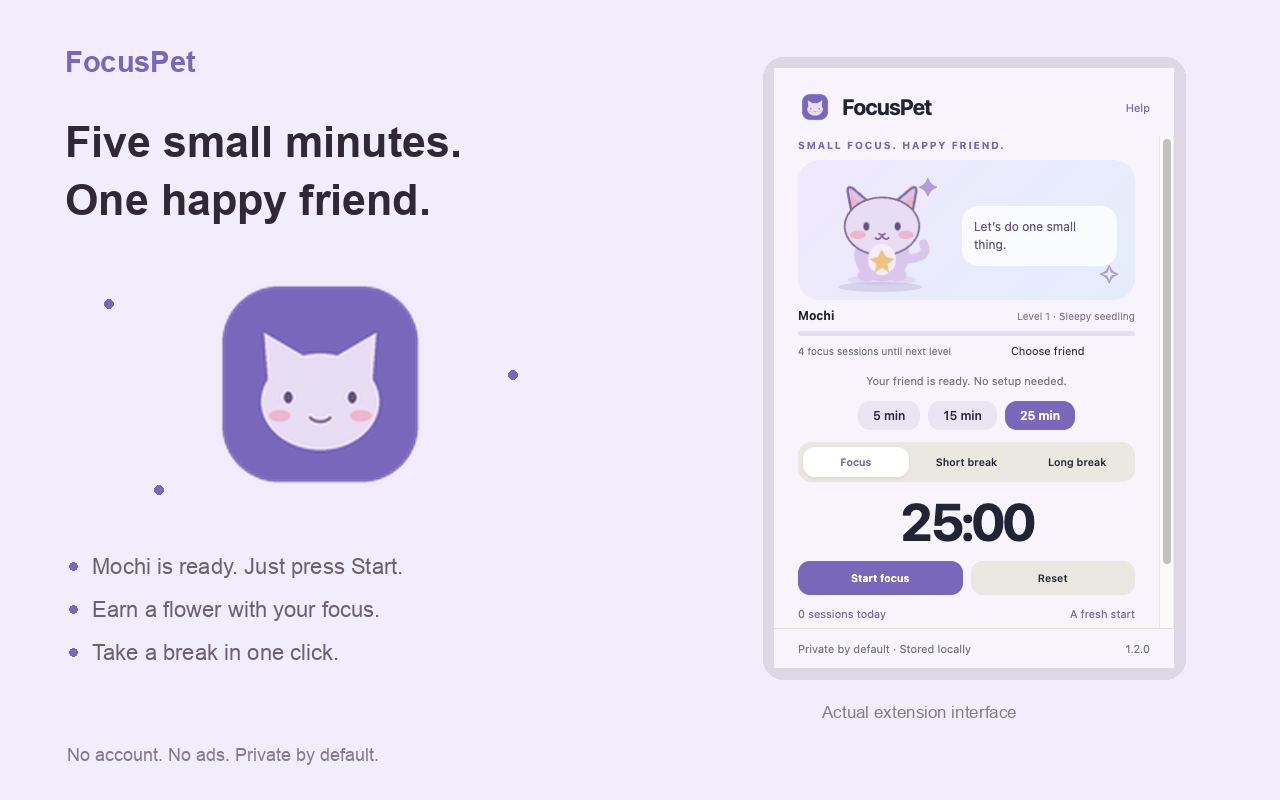
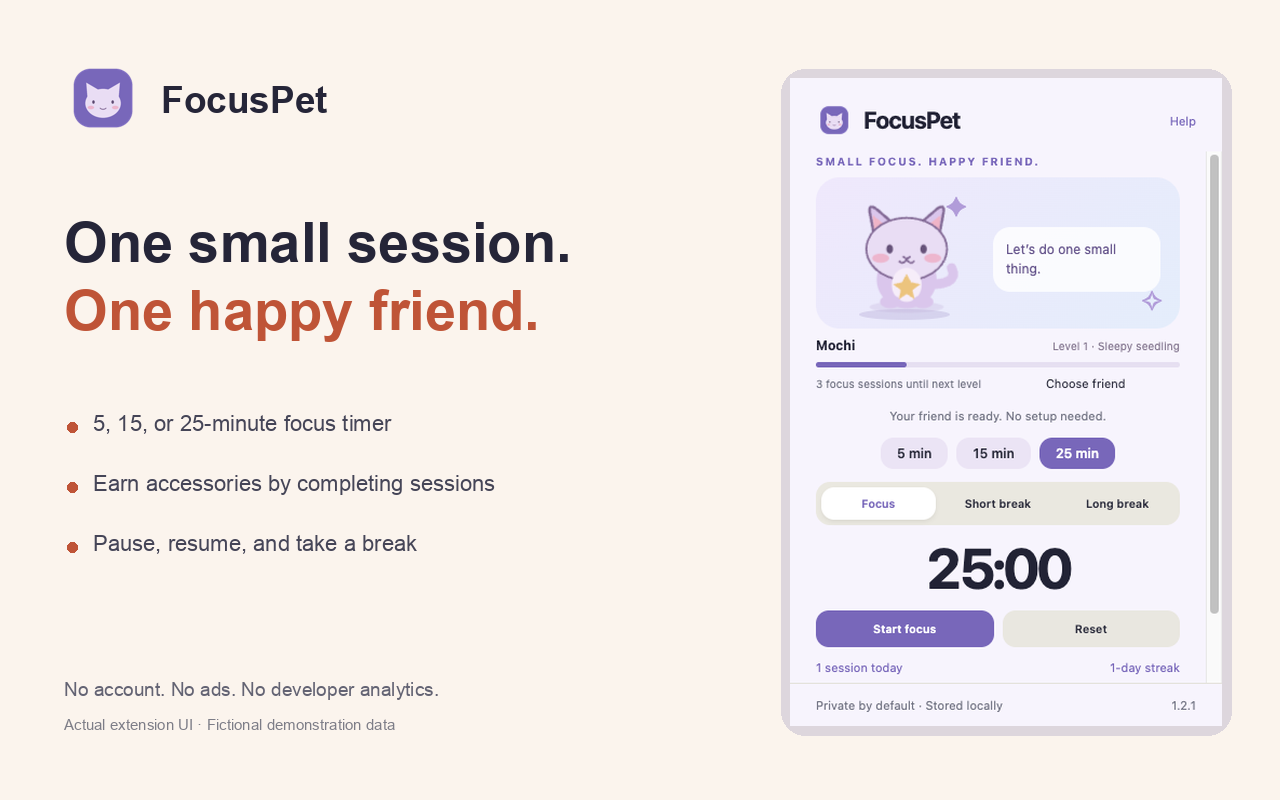
Improve store discovery and add optional honest feedback

diff --git a/extension/popup.html b/extension/popup.html
@@ -1,1 +1,1 @@
-<!doctype html><html lang="en"><head><meta charset="utf-8"><meta name="viewport" content="width=device-width,initial-scale=1"><title>FocusPet</title><link rel="stylesheet" href="style.css"></head><body><header><div><img src="icons/icon48.png" alt=""><h1>FocusPet</h1></div><a class="brand-link" href="privacy.html" target="_blank">Help</a></header><main><div class="eyebrow">SMALL FOCUS. HAPPY FRIEND.</div><div class="pet-scene" id="pet-scene"><div class="spark s1">✦</div><div class="spark s2">✧</div><img id="pet-image" src="pets/cat.svg" alt="Your focus companion"><span id="pet-accessory" aria-hidden="true"></span><div class="pet-shadow"></div><span class="pet-bubble" id="pet-bubble">Let's do one small thing.</span></div><div class="pet-info"><strong id="pet-name">Mochi</strong><span id="pet-level">Level 1 · Sleepy seedling</span></div><div class="growth"><div id="growth-bar"></div></div><div class="row"><span class="muted" id="growth-label">4 focus sessions to grow</span><button id="customize" class="quiet small">Choose friend</button></div><section id="custom-panel" class="card" hidden><label for="pet-kind">Your companion</label><div class="row"><select id="pet-kind"><option value="cat">Cat</option><option value="bunny">Bunny</option></select><input id="pet-name-input" maxlength="30" placeholder="Friend's name" aria-label="Companion name"><button id="save-pet" class="primary small">Save</button></div></section><p class="muted center" id="ready-hint">Mochi is ready. No setup needed.</p><div class="presets" aria-label="Focus duration"><button data-minutes="5">5 min</button><button data-minutes="15">15 min</button><button data-minutes="25" class="selected">25 min</button></div><div class="tabs" style="margin-top:12px"><button data-mode="focus" class="selected">Focus</button><button data-mode="short">Short break</button><button data-mode="long">Long break</button></div><div id="clock" class="clock" role="timer" aria-label="Time remaining">25:00</div><div class="row"><button id="start" class="primary">Start focus</button><button id="reset">Reset</button></div><button id="next-session" class="full" hidden>Take a 5-minute break</button><div class="daily-summary"><span id="completed">0 sessions today</span><span id="streak">A fresh start</span></div><details class="settings-details"><summary>Optional task, timer settings & progress</summary><label for="task">One thing to focus on (optional)</label><input id="task" maxlength="100" placeholder="You can start without writing anything"><div class="row"><div><label for="focus-minutes">Focus minutes</label><input id="focus-minutes" type="number" min="1" max="120" value="25"></div><div><label for="break-minutes">Break minutes</label><input id="break-minutes" type="number" min="1" max="60" value="5"></div></div><button id="settings" class="small" style="margin-top:10px">Save durations</button><div id="week" class="week"></div></details><p id="status" class="status" role="status" aria-live="polite"></p></main><footer><span>Private by default · Stored locally</span><span>1.2.0</span></footer><script type="module" src="popup.js"></script></body></html>
+<!doctype html><html lang="en"><head><meta charset="utf-8"><meta name="viewport" content="width=device-width,initial-scale=1"><title>FocusPet</title><link rel="stylesheet" href="style.css"></head><body><header><div><img src="icons/icon48.png" alt=""><h1>FocusPet</h1></div><a class="brand-link" href="privacy.html" target="_blank">Help</a></header><main><div class="eyebrow">SMALL FOCUS. HAPPY FRIEND.</div><div class="pet-scene" id="pet-scene"><div class="spark s1">✦</div><div class="spark s2">✧</div><img id="pet-image" src="pets/cat.svg" alt="Your focus companion"><span id="pet-accessory" aria-hidden="true"></span><div class="pet-shadow"></div><span class="pet-bubble" id="pet-bubble">Let's do one small thing.</span></div><div class="pet-info"><strong id="pet-name">Mochi</strong><span id="pet-level">Level 1 · Sleepy seedling</span></div><div class="growth"><div id="growth-bar"></div></div><div class="row"><span class="muted" id="growth-label">4 focus sessions to grow</span><button id="customize" class="quiet small">Choose friend</button></div><section id="custom-panel" class="card" hidden><label for="pet-kind">Your companion</label><div class="row"><select id="pet-kind"><option value="cat">Cat</option><option value="bunny">Bunny</option></select><input id="pet-name-input" maxlength="30" placeholder="Friend's name" aria-label="Companion name"><button id="save-pet" class="primary small">Save</button></div></section><p class="muted center" id="ready-hint">Mochi is ready. No setup needed.</p><div class="presets" aria-label="Focus duration"><button data-minutes="5">5 min</button><button data-minutes="15">15 min</button><button data-minutes="25" class="selected">25 min</button></div><div class="tabs" style="margin-top:12px"><button data-mode="focus" class="selected">Focus</button><button data-mode="short">Short break</button><button data-mode="long">Long break</button></div><div id="clock" class="clock" role="timer" aria-label="Time remaining">25:00</div><div class="row"><button id="start" class="primary">Start focus</button><button id="reset">Reset</button></div><button id="next-session" class="full" hidden>Take a 5-minute break</button><div class="daily-summary"><span id="completed">0 sessions today</span><span id="streak">A fresh start</span></div><details class="settings-details"><summary>Optional task, timer settings & progress</summary><label for="task">One thing to focus on (optional)</label><input id="task" maxlength="100" placeholder="You can start without writing anything"><div class="row"><div><label for="focus-minutes">Focus minutes</label><input id="focus-minutes" type="number" min="1" max="120" value="25"></div><div><label for="break-minutes">Break minutes</label><input id="break-minutes" type="number" min="1" max="60" value="5"></div></div><button id="settings" class="small" style="margin-top:10px">Save durations</button><div id="week" class="week"></div></details><p id="status" class="status" role="status" aria-live="polite"></p></main><footer><span>Private by default · Stored locally</span><span>1.2.1</span></footer><script type="module" src="popup.js"></script></body></html>

diff --git a/extension/background.js b/extension/background.js
@@ -1,8 +1,9 @@
+import {recordReviewUse} from './review.js';
 import {defaults,remaining,finishTimer} from './model.js';
 let queue=Promise.resolve();
 function serialize(work){const result=queue.then(work);queue=result.catch(()=>{});return result;}
 async function read(){const d=await chrome.storage.local.get(['timer','durations','stats','pet','task']);return {timer:d.timer||{mode:'focus',remaining:25*60000,running:false,finished:false},durations:{...defaults,...d.durations},stats:d.stats||{},pet:d.pet||{total:Object.values(d.stats||{}).reduce((a,b)=>a+b,0),kind:'cat',name:'Mochi'},task:d.task||''};}
-async function finish(){const d=await read();const update=finishTimer(d.timer,d.stats);if(!update)return d;const stats=Object.fromEntries(Object.entries(update.stats).sort(([a],[b])=>b.localeCompare(a)).slice(0,90));const pet={...d.pet,total:d.pet.total+(d.timer.mode==='focus'?1:0)};await chrome.storage.local.set({timer:update.timer,stats,pet});await chrome.alarms.clear('finish');await chrome.action.setBadgeText({text:''});try{await chrome.notifications.create('focuspebble-done',{type:'basic',iconUrl:'icons/icon128.png',title:d.timer.mode==='focus'?'Focus complete':'Break complete',message:d.timer.mode==='focus'?'Nice work. Take a breath and choose your next step.':'Ready for another focus session?',priority:1});}catch{}return {...d,timer:update.timer,stats,pet};}
+async function finish(){const d=await read();const update=finishTimer(d.timer,d.stats);if(!update)return d;const stats=Object.fromEntries(Object.entries(update.stats).sort(([a],[b])=>b.localeCompare(a)).slice(0,90));const pet={...d.pet,total:d.pet.total+(d.timer.mode==='focus'?1:0)};await chrome.storage.local.set({timer:update.timer,stats,pet});if(d.timer.mode==='focus')await recordReviewUse();await chrome.alarms.clear('finish');await chrome.action.setBadgeText({text:''});try{await chrome.notifications.create('focuspebble-done',{type:'basic',iconUrl:'icons/icon128.png',title:d.timer.mode==='focus'?'Focus complete':'Break complete',message:d.timer.mode==='focus'?'Nice work. Take a breath and choose your next step.':'Ready for another focus session?',priority:1});}catch{}return {...d,timer:update.timer,stats,pet};}
 async function handle(message){let d=await finish();let timer={...d.timer};const now=Date.now();switch(message.type){case 'get':return d;case 'task':d.task=String(message.task||'').slice(0,100);await chrome.storage.local.set({task:d.task});return d;case 'pet':if(!['cat','bunny'].includes(message.kind))throw Error('Choose a cat or bunny.');d.pet={...d.pet,kind:message.kind,name:String(message.name||'Mochi').trim().slice(0,30)||'Mochi'};await chrome.storage.local.set({pet:d.pet});return d;case 'quick':if(timer.running)throw Error('Pause the current timer before changing its duration.');if(![5,15,25].includes(message.minutes))throw Error('Choose 5, 15, or 25 minutes.');timer={mode:'focus',remaining:message.minutes*60000,running:false,finished:false};break;case 'next':if(!timer.finished)throw Error('Complete the current session before starting the next one.');timer={mode:timer.mode==='focus'?'short':'focus',remaining:d.durations[timer.mode==='focus'?'short':'focus']*60000,running:true,finished:false};timer.endAt=now+timer.remaining;break;case 'start':if(timer.running)return d;if(timer.remaining<=0)timer.remaining=d.durations[timer.mode]*60000;timer={...timer,running:true,finished:false,endAt:now+timer.remaining};break;case 'pause':timer={...timer,remaining:remaining(timer,now),running:false};break;case 'reset':timer={mode:timer.mode,remaining:d.durations[timer.mode]*60000,running:false,finished:false};break;case 'mode':if(!['focus','short','long'].includes(message.mode))throw Error('Invalid mode.');timer={mode:message.mode,remaining:d.durations[message.mode]*60000,running:false,finished:false};break;case 'settings':if(!Number.isInteger(message.focus)||message.focus<1||message.focus>120||!Number.isInteger(message.short)||message.short<1||message.short>60)throw Error('Use whole minutes: focus 1–120, break 1–60.');d.durations={...d.durations,focus:message.focus,short:message.short};await chrome.storage.local.set({durations:d.durations});if(!timer.running)timer={mode:timer.mode,running:false,remaining:d.durations[timer.mode]*60000,finished:false};break;default:throw Error('Unsupported timer action.');}await chrome.storage.local.set({timer});if(timer.running){await chrome.alarms.create('finish',{when:timer.endAt});await chrome.action.setBadgeBackgroundColor({color:'#bf5437'});await chrome.action.setBadgeText({text:timer.mode==='focus'?'ON':'BRK'});}else{await chrome.alarms.clear('finish');await chrome.action.setBadgeText({text:''});}return {...d,timer};}
 chrome.runtime.onMessage.addListener((message,sender,respond)=>{if(sender.id!==chrome.runtime.id)return;serialize(()=>handle(message)).then(data=>respond({ok:true,data}),error=>respond({ok:false,error:error.message}));return true;});
 chrome.alarms.onAlarm.addListener(alarm=>{if(alarm.name==='finish')serialize(finish);});

diff --git a/extension/privacy.html b/extension/privacy.html
@@ -1,1 +1,1 @@
-<!doctype html><html lang="en"><meta charset="utf-8"><meta name="viewport" content="width=device-width,initial-scale=1"><title>Privacy and help</title><link rel="stylesheet" href="style.css"><body class="library"><header><h1>Privacy and help</h1></header><main><h2>Stored on your device</h2><p>This extension does not send your data to a developer server. It contains no analytics, advertising, accounts, or remote executable code.</p><p>Saved content uses Chrome local storage. Clearing extension data or uninstalling removes it. Chrome and its Web Store operate under Google's separate policies.</p><h2>How this product accesses data</h2><p>Local data includes timer state, durations, task intention, companion type and name, total completed focus sessions, and up to 90 days of daily counts. No page content or browsing history is accessed.</p><h2>Control your data</h2><p>Use the export and delete controls where provided. Exported files may contain private URLs or notes, so store them somewhere you trust.</p><h2>Support</h2><p>Use the support contact on this extension's Chrome Web Store listing to report a bug. Include the extension version and steps to reproduce. Do not include passwords, private URLs, or sensitive notes.</p><h2>Remove the extension</h2><p>Open chrome://extensions, find this extension, and choose Remove.</p><a href="popup.html">Back to the app</a></main></body></html>
+<!doctype html><html lang="en"><meta charset="utf-8"><meta name="viewport" content="width=device-width,initial-scale=1"><title>Privacy and help</title><link rel="stylesheet" href="style.css"><body class="library"><header><h1>Privacy and help</h1></header><main><h2>Stored on your device</h2><p>This extension does not send your data to a developer server. It contains no analytics, advertising, accounts, or remote executable code.</p><p>Saved content uses Chrome local storage. Clearing extension data or uninstalling removes it. Chrome and its Web Store operate under Google's separate policies.</p><h2>How this product accesses data</h2><p>Local data includes timer state, durations, task intention, companion type and name, total completed focus sessions, and up to 90 days of daily counts. No page content or browsing history is accessed.</p><h2>Control your data</h2><p>Use the export and delete controls where provided. Exported files may contain private URLs or notes, so store them somewhere you trust.</p><h2>Support</h2><p>Use the support contact on this extension's Chrome Web Store listing to report a bug. Include the extension version and steps to reproduce. Do not include passwords, private URLs, or sensitive notes.</p><h2>Remove the extension</h2><p>Open chrome://extensions, find this extension, and choose Remove.</p><a href="popup.html">Back to the app</a><h2>Share feedback</h2><p>Share an honest review of your experience. Reviews are optional and do not unlock features.</p><p><a href="https://chromewebstore.google.com/detail/cbfjjbjnoogmgpggefjgphhdfdpciclk/reviews" target="_blank" rel="noopener noreferrer">Write a Chrome Web Store review</a></p><p>Local feedback preferences record successful-use counts, activity dates, and whether the one-time review notice was dismissed or opened. No feedback data is sent to the developer.</p></main></body></html>

diff --git a/extension/popup.js b/extension/popup.js
@@ -1,3 +1,5 @@
+import {initReview} from './review.js';
+initReview('https://chromewebstore.google.com/detail/cbfjjbjnoogmgpggefjgphhdfdpciclk/reviews');
 import {$,status,node} from './shared.js';import {remaining,localDay,petStage,streak} from './model.js';let state,pending=false;
 function clock(){if(!state)return;const seconds=Math.ceil(remaining(state.timer)/1000);$('#clock').textContent=`${String(Math.floor(seconds/60)).padStart(2,'0')}:${String(seconds%60).padStart(2,'0')}`;if(state.timer.running&&seconds===0&&!pending)send('get').catch(()=>{});}
 function render(){const t=state.timer,pet=state.pet,stage=petStage(pet.total);document.querySelectorAll('[data-mode]').forEach(e=>e.classList.toggle('selected',e.dataset.mode===t.mode));$('#start').textContent=t.running?'Pause':Boolean(t.endAt)&&!t.finished?'Resume':`Start ${t.mode==='focus'?'focus':'break'}`;$('#pet-scene').classList.toggle('working',t.running&&t.mode==='focus');$('#pet-scene').classList.toggle('resting',!t.running||t.mode!=='focus');$('#pet-image').src=`pets/${pet.kind}.svg`;$('#pet-name').textContent=pet.name;$('#pet-accessory').textContent=['','✿','★','♛'][stage.level-1];$('#pet-accessory').title=stage.name;$('#ready-hint').textContent=t.running?'Your timer keeps going when this popup closes.':t.finished?'A small win. Ready for the next step?':'Your friend is ready. No setup needed.';$('#next-session').hidden=!t.finished;$('#next-session').textContent=t.mode==='focus'?`Take a ${state.durations.short}-minute break`:'Start another focus session';document.querySelectorAll('[data-minutes]').forEach(e=>{e.disabled=t.running;e.classList.toggle('selected',!t.running&&!t.finished&&t.mode==='focus'&&t.remaining===Number(e.dataset.minutes)*60000);});$('#pet-level').textContent=`Level ${stage.level} · ${stage.name}`;$('#pet-bubble').textContent=t.finished?'You did it. Take a little breath.':t.running?(t.mode==='focus'?'I’ll keep you company.':'Time to stretch our paws.'):'Let’s do one small thing.';$('#growth-bar').style.width=`${stage.next?Math.min(100,pet.total/stage.next*100):100}%`;$('#growth-label').textContent=stage.next?`${stage.next-pet.total} focus sessions until next level`:'Your little moon guardian is all grown up.';const count=state.stats[localDay(Date.now())]||0;$('#completed').textContent=`${count} ${count===1?'session':'sessions'} today`;const days=streak(state.stats);$('#streak').textContent=days?`${days}-day streak`:'A fresh start';const week=$('#week');week.replaceChildren();for(let i=6;i>=0;i--){const d=new Date();d.setDate(d.getDate()-i);const n=state.stats[localDay(d.getTime())]||0;const col=node('div',undefined,'week-day');const bar=node('div',undefined,'week-bar');bar.style.height=`${Math.min(50,n*8)+4}px`;bar.title=`${n} sessions`;col.append(node('span',String(n),'muted'),bar,node('span',d.toLocaleDateString(undefined,{weekday:'narrow'}),'muted'));week.append(col);}clock();}

diff --git a/extension/style.css b/extension/style.css
@@ -8,3 +8,5 @@ body:not(.library){height:600px;display:flex;flex-direction:column}body:not(.lib
 :root{--accent:#7867ba;background:#f7f4fd}.pet-scene{position:relative;height:138px;margin:9px 0 4px;background:linear-gradient(135deg,#efe8fc,#e4edfb);border-radius:22px;overflow:hidden}.pet-scene>img{position:absolute;bottom:7px;left:24px;width:120px;height:120px;z-index:2}.pet-shadow{position:absolute;bottom:8px;left:40px;width:84px;height:10px;background:#b8aed8;border-radius:50%;opacity:.4}.pet-bubble{position:absolute;right:18px;top:46px;max-width:155px;font-size:12px;line-height:1.5;background:#fffc;padding:12px;border-radius:16px;color:#66558c}.spark{position:absolute;color:#b19cd9;font-size:25px}.s1{top:12px;left:120px}.s2{right:16px;bottom:12px}.working>img{animation:bob 3s ease-in-out infinite}.resting>img{animation:breath 5s ease-in-out infinite}@keyframes bob{50%{transform:translateY(-5px) rotate(2deg)}}@keyframes breath{50%{transform:scale(1.03)}}@media(prefers-reduced-motion:reduce){.working>img,.resting>img{animation:none}}.pet-info{display:flex;justify-content:space-between;align-items:center;margin:8px 0;font-size:12px}.pet-info>span{color:#867991;font-size:10px}.growth{height:5px;background:#e6dff1;border-radius:5px;overflow:hidden}.growth>div{height:100%;background:var(--accent);border-radius:5px}.clock{font-size:52px;margin:9px 0;letter-spacing:-3px}.daily-summary{display:flex;justify-content:space-between;font-size:11px;color:var(--accent);margin:12px 0}.settings-details{font-size:12px;color:#777182;margin-top:8px}.settings-details summary{cursor:pointer}.week{display:flex;gap:9px;justify-content:space-between;align-items:flex-end;height:85px;margin-top:12px}.week-day{display:flex;align-items:center;flex-direction:column;gap:3px;flex:1}.week-bar{width:22px;background:#bca7e3;border-radius:4px}.primary{background:var(--accent)}body:not(.library) main{padding-top:3px}#task{padding:9px}label{margin-top:9px}#growth-label{font-size:10px}
 
 .presets{display:flex;gap:8px;justify-content:center}.presets button{background:#ebe4f5;padding:7px 15px;font-size:12px}.presets .selected{background:var(--accent);color:white}#ready-hint{font-size:11px;margin:8px 0 11px}.pet-scene{height:140px}#pet-accessory{position:absolute;left:116px;top:17px;color:#b39147;font-size:29px;z-index:3;transform:rotate(10deg)}#next-session{margin-top:9px;background:#e8e0f4;color:#625295}.clock{margin:9px 0}.settings-details input{padding:8px}
+
+.review-card{margin-top:16px;padding:12px;border:1px solid #ddd;border-radius:12px;background:#fff;font-size:12px;line-height:1.5}.review-card p{margin:0 0 8px}.review-card a{margin-right:14px}.review-card button{font-size:11px}

diff --git a/extension/review.js b/extension/review.js
@@ -1,0 +1,55 @@
+// Feedback preferences stay on this device; no analytics or network requests.
+const KEY = 'reviewPrompt';
+const DAY = 86400000;
+let queue = Promise.resolve();
+export function eligibleReview(state, now = Date.now()) {
+  return Boolean(state && !state.handled && state.count >= 5 &&
+    state.days?.length >= 3 && now - state.firstAt >= 7 * DAY);
+}
+export function initReview(url) {
+  let box;
+  const settle = async () => {
+    try {
+      const data = await chrome.storage.local.get(KEY);
+      await chrome.storage.local.set({[KEY]: {...data[KEY], handled: true}});
+    } catch { /* Feedback must never interrupt the app. */ }
+    box?.remove();
+  };
+  const refresh = async () => {
+    try {
+      const data = await chrome.storage.local.get(KEY);
+      if (!eligibleReview(data[KEY])) { box?.remove(); box = null; return; }
+      if (box?.isConnected) return;
+      box = document.createElement('aside');
+      box.className = 'review-card';
+      box.setAttribute('aria-label', 'Optional feedback');
+      const text = document.createElement('p');
+      text.textContent = 'Have a moment? Share an honest review on the Chrome Web Store.';
+      const link = document.createElement('a');
+      link.href = url; link.target = '_blank'; link.rel = 'noopener noreferrer';
+      link.textContent = 'Write a review'; link.addEventListener('click', settle);
+      const dismiss = document.createElement('button');
+      dismiss.type = 'button'; dismiss.className = 'quiet small';
+      dismiss.textContent = 'Dismiss'; dismiss.addEventListener('click', settle);
+      box.append(text, link, dismiss);
+      document.querySelector('main').append(box);
+    } catch { /* Feedback must never interrupt the app. */ }
+  };
+  void refresh();
+  chrome.storage.onChanged.addListener((changes, area) => {
+    if (area === 'local' && changes[KEY]) void refresh();
+  });
+  return recordReviewUse;
+}
+export function recordReviewUse() {
+    queue = queue.then(async () => {
+      const data = await chrome.storage.local.get(KEY);
+      const old = data[KEY] || {firstAt: Date.now(), count: 0, days: []};
+      if (old.handled) return;
+      const day = new Date().toISOString().slice(0, 10);
+      await chrome.storage.local.set({[KEY]: {...old,
+        count: Math.min(100, old.count + 1),
+        days: [...new Set([...(old.days || []), day])].slice(-30)}});
+    }).catch(() => {});
+    return queue;
+}

diff --git a/tests/review.test.js b/tests/review.test.js
@@ -1,0 +1,6 @@
+import {test} from 'node:test';
+import assert from 'node:assert/strict';
+import {eligibleReview} from '../extension/review.js';
+const now=20*86400000;
+const ready={firstAt:0,count:5,days:['one','two','three']};
+test('review notice waits for repeated use across a week and respects dismissal',()=>{assert.equal(eligibleReview(ready,now),true);for(const state of [null,{...ready,count:4},{...ready,days:['one']},{...ready,firstAt:now-86400000},{...ready,handled:true}])assert.equal(eligibleReview(state,now),false);});

diff --git a/store/launch.md b/store/launch.md
@@ -1,0 +1,28 @@
+# FocusPet launch material
+
+## Community post
+
+Title: A focus timer. A little companion.
+
+I built FocusPet, a Chrome extension for a simpler everyday browsing workflow.
+
+FocusPet is a focus timer with a tiny virtual cat or bunny to keep you company. Start a 5, 15, or 25-minute session, finish one small task, and earn accessories for your companion.
+
+What it does:
+- Choose 5, 15, or 25 minutes
+- Completed sessions unlock accessories
+- Pause, resume, and take a short break
+
+Install: https://chromewebstore.google.com/detail/cbfjjbjnoogmgpggefjgphhdfdpciclk
+
+I am the developer. I would appreciate feedback on the workflow, confusing steps, or missing essentials. Please share your own experience; there is no reward or required rating.
+
+## Demo caption
+
+A focus timer. A little companion. FocusPet is a focus timer with a tiny virtual cat or bunny to keep you company. Start a 5, 15, or 25-minute session, finish one small task, and earn accessories for your companion.
+
+Install: https://chromewebstore.google.com/detail/cbfjjbjnoogmgpggefjgphhdfdpciclk
+
+## Distribution
+
+Share in relevant communities only where their rules permit developer posts. Use the guided demo in `store/demo/`, with its fictional-data and accelerated-timer disclosures where applicable. These posts are prepared drafts; they have not been posted.

diff --git a/store/submission.md b/store/submission.md
@@ -1,9 +1,3 @@
 # Store release status
 
-Checked 2026-10-16. The existing item remains **1.1.0 — Pending review**. Version **1.2.0 has not been uploaded or submitted**.
-
-The publisher dashboard explicitly rejected cancellation of the previous review with: “Cannot cancel because you’ve reached the daily limit.” Upload new package remains disabled while the existing submission is pending. The dashboard did not provide a reset time.
-
-The 1.2.0 implementation, listing, media, reviewer instructions and validated ZIP are available in this repository and its GitHub release. To finish the update after cancellation becomes available: cancel the existing review, upload the 1.2.0 ZIP, replace the listing/media and permission explanations with the prepared files, and submit for review with automatic publication after approval. Verify the stored version and images before reporting completion.
-
-Existing store metadata describes 1.1.0 until replacement succeeds. Prepared assets are not published store content. No duplicate store item was created.
+Updated 2026-10-21. Version 1.2.1 has been prepared and uploaded to the existing item. The earlier 1.2.0 update was superseded. Current submission evidence is recorded in `submission-2026-10-21.json`; public availability depends on Google’s review.

diff --git a/store/asset-notes.md b/store/asset-notes.md
@@ -1,5 +1,5 @@
-# Store assets
+# Store artwork provenance
 
-Promotional artwork uses the extension's original vector and geometric mascot system. Overview images combine promotional typography with an actual isolated-browser UI capture. Capture content uses fictional example domains and local data. No user account information is included.
+Overview and marquee images combine explanatory typography with an actual isolated-browser UI capture using fictional example data. The capture comes from `store/popup-400x600.png`, generated from version 1.2.1 in a disposable browser profile. Promotional tiles use the existing mascot and geometric icon system. No personal account or workstation information is included.
 
-Required assets: RGB PNG overview at 1280×800 and small promotional tile at 440×280. Optional marquee: RGB PNG at 1400×560. Icons use RGBA PNG at 16, 32, 48, and 128 pixels.
+All uploaded artwork is RGB PNG at the requested store dimensions. Guided demo frames and completion acceleration disclosures remain in `store/demo/README.md`.

diff --git a/store/listing.md b/store/listing.md
@@ -1,18 +1,18 @@
 # FocusPet
 
-## Category
+## Store fields
 
-Workflow & Planning
-
-## Language
-
-English
+- Title: FocusPet: Focus Timer & Virtual Pet
+- Summary: A focus timer with a virtual cat or bunny. Choose 5, 15, or 25 minutes, complete sessions, and unlock pet accessories.
+- Category: Workflow & Planning
+- Language: English
 
 ## Description
 
-Five small minutes. One happy friend.
+FocusPet is a focus timer with a tiny virtual cat or bunny to keep you company. Start a 5, 15, or 25-minute session, finish one small task, and earn accessories for your companion.
 
-Mochi is already waiting. Start a focus session without a task, account, or pet setup. Completed sessions earn visible accessories; your friend never needs feeding or chores.
+GET STARTED
+Open FocusPet, choose a duration, and click Start focus. No account, task entry, or pet setup is required. After completion, choose a short break.
 
 FEATURES
 - Start immediately with the default cat and 25-minute timer.

diff --git a/PRIVACY.md b/PRIVACY.md
@@ -1,6 +1,6 @@
 # FocusPet privacy policy
 
-Effective date: 2026-10-16.
+Effective date: 2026-10-21.
 
 ## Data and access
 
@@ -9,6 +9,10 @@ Local data includes timer state, durations, task intention, companion type and n
 `storage` persists timer state and companion progress. `alarms` schedules timer completion. `notifications` displays generic completion messages.
 
 Processing is local. The developer receives no extension data. No accounts, cloud sync, ads, analytics or remote executable code. Google and Chrome have separate privacy policies.
+
+## Optional feedback
+
+Successful-use counts, activity dates, and a dismissal/opened preference are stored locally for an optional one-time review notice after at least five uses on three days spanning one week. No feedback telemetry is transmitted. The help page always links to the store review page, regardless of usage or satisfaction.
 
 ## Control and retention
 
